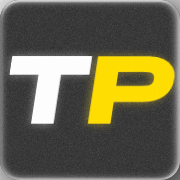
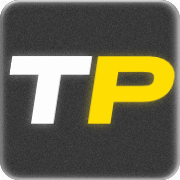
Add files via upload
updated icon test 2

diff --git a/rules.html b/rules.html
@@ -6,8 +6,8 @@
 <meta name="theme-color" content="#0C0C0E">
 <meta name="description" content="Turbo Poker rules: how a hand goes, whose turn it is, and every rule for the table.">
 <title>Rules · Turbo Poker</title>
-<link rel="icon" type="image/png" href="icon.png">
-<link rel="apple-touch-icon" href="icon.png">
+<link rel="icon" type="image/png" href="icon.png?v=2">
+<link rel="apple-touch-icon" href="icon.png?v=2">
 <link rel="preconnect" href="https://fonts.googleapis.com">
 <link rel="preconnect" href="https://fonts.gstatic.com" crossorigin>
 <link href="https://fonts.googleapis.com/css2?family=Barlow+Condensed:ital,wght@0,600;0,700;0,800;0,900;1,800;1,900&family=Barlow:wght@400;500;600;700&family=JetBrains+Mono:wght@500;700;800&display=swap" rel="stylesheet">

diff --git a/index.html b/index.html
@@ -9,8 +9,8 @@
 <meta name="apple-mobile-web-app-title" content="Turbo Poker">
 <meta name="mobile-web-app-capable" content="yes">
 <link rel="manifest" href="manifest.webmanifest">
-<link rel="icon" type="image/png" href="icon.png">
-<link rel="apple-touch-icon" href="icon.png">
+<link rel="icon" type="image/png" href="icon.png?v=2">
+<link rel="apple-touch-icon" href="icon.png?v=2">
 <meta name="description" content="Turbo Poker: blind timer, chip stacks, colour-up and payouts for a fast home game.">
 <title>Turbo Poker</title>
 <link rel="preconnect" href="https://fonts.googleapis.com">
